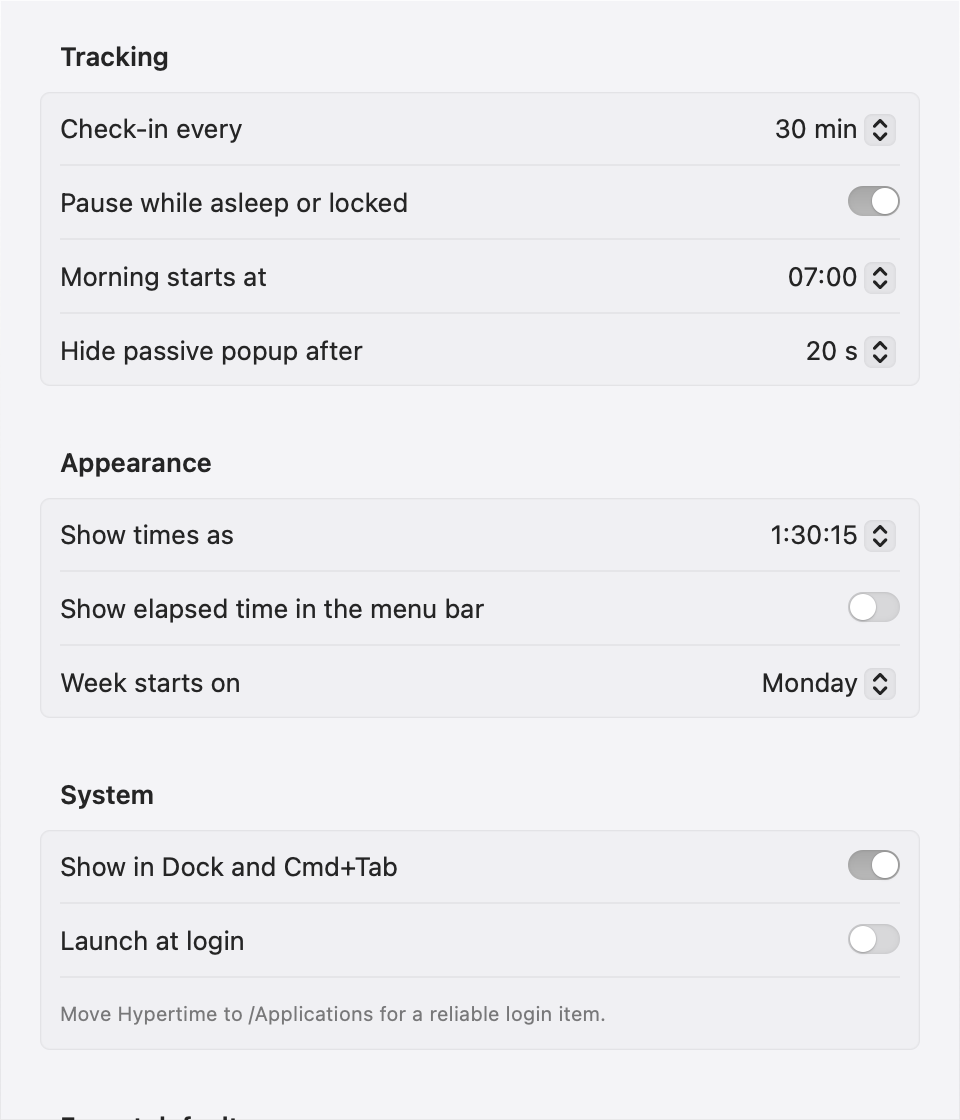
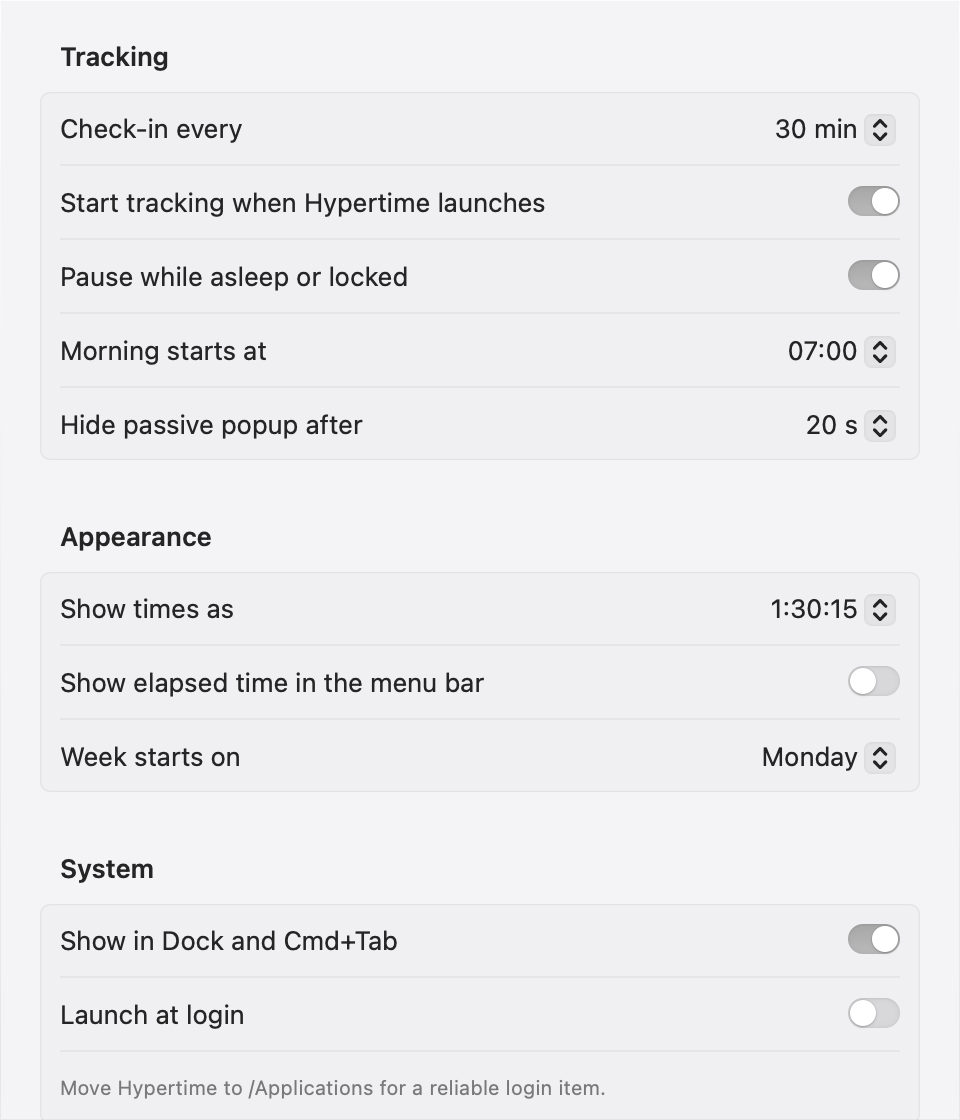
core: resume tracking on launch by default
Reverses A-03. The app now picks tracking back up on the last project as soon as
it starts, behind startTrackingOnLaunch (default on). Tracking restarts from a
fresh bucket at launch time and the check-in clock restarts with it, so none of
the hours the app spent closed are counted — quitting still stops tracking. It
stays idle when there is no last project, when that project was deleted while the
app was closed, or when the setting is off.

The two restore tests that asserted the old behaviour now cover both settings,
plus the deleted-project and no-history paths.

diff --git a/Tests/HypertimeCoreTests/TrackingEngineTests.swift b/Tests/HypertimeCoreTests/TrackingEngineTests.swift
@@ -245,8 +245,37 @@ struct TrackingEngineTests {
         #expect(try store.seconds(project: alpha.id, day: d("2026-09-07")) == 86400)
     }
 
-    @Test("restore after a clean quit: idle, project remembered, no time lost")
-    func restoreAfterQuit() throws {
+    @Test("restore picks tracking back up on the last project")
+    func restoreResumes() throws {
+        engine.start(projectID: alpha.id)
+        run(seconds: 120)
+        engine.stop()
+        clock.advance(by: 8 * 3600)                    // the app was closed overnight
+
+        let restored = TrackingEngine(store: store, clock: clock, settings: settings)
+        restored.restore()
+        #expect(restored.status.isTracking)
+        #expect(restored.currentProjectID == alpha.id)
+        #expect(restored.pendingSeconds == 0)          // none of the closed hours are work time
+        #expect(try store.seconds(project: alpha.id, day: d("2026-09-07")) == 120)
+    }
+
+    @Test("the check-in clock restarts when tracking resumes on launch")
+    func restoreRestartsCheckInClock() throws {
+        settings.checkInIntervalMinutes = 30
+        engine.start(projectID: alpha.id)
+        run(seconds: 60)
+        engine.stop()
+        clock.advance(by: 8 * 3600)
+
+        let restored = TrackingEngine(store: store, clock: clock, settings: settings)
+        restored.restore()
+        #expect(restored.nextCheckInAt == clock.now().addingTimeInterval(1800))
+    }
+
+    @Test("restore waits when start-on-launch is off (the old A-03 behaviour)")
+    func restoreStaysIdleWhenDisabled() throws {
+        settings.startTrackingOnLaunch = false
         engine.start(projectID: alpha.id)
         run(seconds: 120)
         engine.stop()
@@ -254,12 +283,32 @@ struct TrackingEngineTests {
         let restored = TrackingEngine(store: store, clock: clock, settings: settings)
         restored.restore()
         #expect(restored.status == .idle)
-        #expect(restored.currentProjectID == alpha.id)
+        #expect(restored.currentProjectID == alpha.id)  // still preselects it (R-05)
         #expect(restored.pending == nil)
         #expect(try store.seconds(project: alpha.id, day: d("2026-09-07")) == 120)
     }
 
-    @Test("restore after a crash recovers the persisted bucket")
+    @Test("restore does not resume a project deleted while the app was closed")
+    func restoreSkipsDeletedProject() throws {
+        engine.start(projectID: alpha.id)
+        run(seconds: 60)
+        engine.stop()
+        try store.deleteProject(id: alpha.id)
+
+        let restored = TrackingEngine(store: store, clock: clock, settings: settings)
+        restored.restore()
+        #expect(restored.status == .idle)
+    }
+
+    @Test("restore with nothing tracked before stays idle")
+    func restoreWithoutHistory() {
+        let restored = TrackingEngine(store: store, clock: clock, settings: settings)
+        restored.restore()
+        #expect(restored.status == .idle)
+        #expect(restored.currentProjectID == nil)
+    }
+
+    @Test("restore after a crash recovers the persisted bucket, then resumes")
     func restoreAfterCrash() throws {
         engine.start(projectID: alpha.id)
         run(seconds: 200)
@@ -267,10 +316,10 @@ struct TrackingEngineTests {
 
         let restored = TrackingEngine(store: store, clock: clock, settings: settings)
         restored.restore()
-        #expect(restored.status == .idle)
-        #expect(restored.currentProjectID == alpha.id)
-        #expect(restored.pending == nil)
         #expect(try store.seconds(project: alpha.id, day: d("2026-09-07")) == 200)
+        #expect(restored.status.isTracking)
+        #expect(restored.currentProjectID == alpha.id)
+        #expect(restored.pendingSeconds == 0)          // the recovered time is banked, not pending
     }
 
     @Test("liveSeconds only adds pending to the right project and day")

diff --git a/Sources/Hypertime/App/SelfTest.swift b/Sources/Hypertime/App/SelfTest.swift
@@ -197,6 +197,28 @@ enum SelfTest {
         viewModel.projectTextChanged("")
         check("idle with no project named has nothing to start", !viewModel.canToggleTracking)
 
+        // Tracking picks itself back up on the next launch, on the project it was last on, and
+        // none of the time the app was closed is counted.
+        let resumeProject = try? model.store.findOrCreateProject(named: "Self Test")
+        model.engine.commit(projectID: resumeProject!.id, seconds: 0)
+        model.engine.stop()
+        let banked = (try? model.store.seconds(project: resumeProject!.id, day: model.today)) ?? 0
+
+        let relaunched = TrackingEngine(store: model.store, clock: model.clock, settings: model.settings)
+        relaunched.restore()
+        check("a relaunch picks tracking back up", relaunched.status.isTracking)
+        check("…on the project it was last on", relaunched.currentProjectID == resumeProject?.id)
+        check("…counting none of the time the app was closed", relaunched.pendingSeconds == 0)
+        check("…and banking nothing extra",
+              ((try? model.store.seconds(project: resumeProject!.id, day: model.today)) ?? 0) == banked)
+
+        model.settings.startTrackingOnLaunch = false
+        let waiting = TrackingEngine(store: model.store, clock: model.clock, settings: model.settings)
+        waiting.restore()
+        check("with the setting off a relaunch waits instead", waiting.status == .idle)
+        check("…but still remembers the project", waiting.currentProjectID == resumeProject?.id)
+        model.settings.startTrackingOnLaunch = true
+
         // The dismiss is animated; give it a run loop turn before checking the window is gone.
         DispatchQueue.main.asyncAfter(deadline: .now() + 0.4) {
             check("panel is ordered out once the dismiss finishes", !panel.isVisible)

diff --git a/Sources/HypertimeCore/TrackingEngine.swift b/Sources/HypertimeCore/TrackingEngine.swift
@@ -260,7 +260,8 @@ public final class TrackingEngine {
 
     // MARK: - Persistence
 
-    /// Restores across launches. Per A-03 the app starts idle; crashed pending time is recovered.
+    /// Restores across launches. Crashed pending time is recovered, then tracking either picks
+    /// up where it left off or waits, depending on `startTrackingOnLaunch`.
     public func restore() {
         guard let state = try? store.loadEngineState() else {
             persist(force: true)
@@ -280,10 +281,20 @@ public final class TrackingEngine {
         }
 
         pending = nil
-        status = .idle
         lastTickAt = clock.now()
-        persist(force: true)
-        broadcaster.send(.statusChanged(status))
+
+        // Time while the app was not running is never work time, so tracking always restarts
+        // from a fresh bucket at "now" — including the check-in clock.
+        if settings.startTrackingOnLaunch,
+           let projectID = currentProjectID,
+           (try? store.project(id: projectID)) != nil {
+            lastCommitAt = clock.now()
+            start(projectID: projectID)
+        } else {
+            status = .idle
+            persist(force: true)
+            broadcaster.send(.statusChanged(status))
+        }
     }
 
     private func setStatus(_ new: TrackingStatus) {

diff --git a/Sources/HypertimeCore/Settings.swift b/Sources/HypertimeCore/Settings.swift
@@ -4,6 +4,7 @@ import Foundation
 public final class Settings: @unchecked Sendable {
     public enum Key: String, CaseIterable, Sendable {
         case checkInIntervalMinutes
+        case startTrackingOnLaunch
         case launchAtLogin
         case showInDockAndCmdTab
         case showElapsedInMenuBar
@@ -28,6 +29,7 @@ public final class Settings: @unchecked Sendable {
         self.defaults = defaults
         defaults.register(defaults: [
             Key.checkInIntervalMinutes.rawValue: 30,
+            Key.startTrackingOnLaunch.rawValue: true,
             Key.launchAtLogin.rawValue: true,
             Key.showInDockAndCmdTab.rawValue: true,
             Key.showElapsedInMenuBar.rawValue: false,
@@ -64,6 +66,12 @@ public final class Settings: @unchecked Sendable {
     public var checkInInterval: TimeInterval? {
         let minutes = checkInIntervalMinutes
         return minutes > 0 ? TimeInterval(minutes) * 60 : nil
+    }
+
+    /// Pick tracking back up on the last project as soon as the app starts (supersedes A-03).
+    public var startTrackingOnLaunch: Bool {
+        get { defaults.bool(forKey: Key.startTrackingOnLaunch.rawValue) }
+        set { set(newValue, .startTrackingOnLaunch) }
     }
 
     public var launchAtLogin: Bool {

diff --git a/Sources/Hypertime/ViewModels/SettingsViewModel.swift b/Sources/Hypertime/ViewModels/SettingsViewModel.swift
@@ -8,6 +8,7 @@ final class SettingsViewModel {
     private let model: AppModel
 
     var checkInIntervalMinutes: Int { didSet { settings.checkInIntervalMinutes = checkInIntervalMinutes } }
+    var startTrackingOnLaunch: Bool { didSet { settings.startTrackingOnLaunch = startTrackingOnLaunch } }
     var pauseOnSleepAndLock: Bool { didSet { settings.pauseOnSleepAndLock = pauseOnSleepAndLock } }
     var morningHour: Int { didSet { settings.morningHour = morningHour } }
     var passiveAutoHide: Int { didSet { settings.passivePopupAutoHideSeconds = passiveAutoHide } }
@@ -35,6 +36,7 @@ final class SettingsViewModel {
         self.model = model
         let settings = model.settings
         checkInIntervalMinutes = settings.checkInIntervalMinutes
+        startTrackingOnLaunch = settings.startTrackingOnLaunch
         pauseOnSleepAndLock = settings.pauseOnSleepAndLock
         morningHour = settings.morningHour
         passiveAutoHide = settings.passivePopupAutoHideSeconds

diff --git a/Sources/Hypertime/Views/Settings/SettingsView.swift b/Sources/Hypertime/Views/Settings/SettingsView.swift
@@ -13,6 +13,7 @@ struct SettingsView: View {
                         Text(minutes == 0 ? "Off" : "\(minutes) min").tag(minutes)
                     }
                 }
+                Toggle("Start tracking when Hypertime launches", isOn: $viewModel.startTrackingOnLaunch)
                 Toggle("Pause while asleep or locked", isOn: $viewModel.pauseOnSleepAndLock)
                 Picker("Morning starts at", selection: $viewModel.morningHour) {
                     ForEach(0..<24, id: \.self) { hour in

diff --git a/README.md b/README.md
@@ -21,9 +21,15 @@ Requires macOS 15 or later (Apple silicon or Intel).
 
 ## First run
 
-Hypertime starts **idle** and shows its popup without taking focus. Type what you are working
-on and press ↩. That first confirm starts tracking; from then on the app asks again every
-30 minutes (configurable, or off).
+On the very first launch Hypertime has no projects yet, so it shows its popup without taking
+focus and waits. Type what you are working on and press ↩.
+
+After that it picks tracking straight back up on whatever you were last working on, every time
+it launches — you do not have to start it by hand. The popup still appears so you can see what
+it resumed on and change it. Turn this off with "Start tracking when Hypertime launches" in
+Settings if you would rather begin each session deliberately.
+
+While tracking, the app asks what you are working on every 30 minutes (configurable, or off).
 
 The menu bar icon shows the state at a glance: an empty dial when idle, a filled dot while
 tracking, two bars while paused.
@@ -42,8 +48,9 @@ written to a project until you confirm, so an unanswered popup can never misfile
   45 minutes are gone, not hidden.
 
 Time is never counted while the Mac sleeps or the screen is locked. Tracking pauses
-automatically and resumes with a check-in when you come back. Quitting stops tracking; the app
-does not resume on its own at launch.
+automatically and resumes with a check-in when you come back. Quitting stops tracking, and the
+hours the app spends closed are never counted — a relaunch starts a fresh bucket from that
+moment.
 
 ## Keyboard
 
@@ -114,7 +121,8 @@ settings, and can be overridden per export.
 
 ## Settings
 
-Check-in interval · pause on sleep and lock · morning hour for "pause until 07:00" ·
+Check-in interval · start tracking on launch · pause on sleep and lock ·
+morning hour for "pause until 07:00" ·
 passive popup auto-hide · time display format · elapsed time in the menu bar · week start ·
 Dock and Cmd+Tab visibility · launch at login · CSV defaults.
 
@@ -132,7 +140,7 @@ Back it up by copying that file. If it ever becomes unreadable, Hypertime moves 
 ## Development
 
 ```bash
-swift test                  # 101 tests over HypertimeCore
+swift test                  # 105 tests over HypertimeCore
 scripts/run.sh              # build dist/Hypertime.app and launch it
 scripts/run.sh --seed-demo  # same, against a seeded demo database
 scripts/release.sh          # signed .app + .zip + .dmg in dist/

diff --git a/docs/DECISIONS.md b/docs/DECISIONS.md
@@ -81,3 +81,4 @@ Everything in `PLAN.md` has been built. What remains needs a person, not more co
 | 2026-09-07 | §6.3 | The popup only anchors to the status item once the menu bar has placed it. Until then the item's window reports an off-screen frame (observed origin {0, -37}), which the old code happily used — clamped, that put the popup in the bottom-left corner of the display. `StatusItemController.screenFrame` now returns nil until the item is in the menu bar, the launch popup waits up to a second for it, and with no anchor the popup falls back to the top right. | Reported: "the window sometimes pops up in the lower left corner". The guard was `window.screen != nil`, which an unplaced item satisfies. |
 | 2026-09-07 | §6.3 | The popup's top edge is 6 pt below the **menu bar**, not 6 pt below the status item's own frame. | §6.3 says "6 pt below the menu bar"; the item is centred inside the bar, so its bottom edge sits ~8 pt higher and the popup was being pushed into the bar and then clamped. |
 | 2026-09-08 | §6.4 | Focus rings are drawn only while the window is key (`controlActiveState`), and a live-updating field only re-selects its text while the window is key. `--screenshots` overrides this so the QA renders keep documenting the focus specs. | A ring says "typing goes here", which is false in a panel the user has left. The amount field also re-ran `selectAll` on every one-second tick, so its selection kept redrawing bright instead of dimming. |
+| 2026-09-08 | A-03, R-15 | **Reverses A-03.** The app now resumes tracking on the last project as soon as it launches, behind a `startTrackingOnLaunch` setting that defaults to on. Tracking always restarts from a fresh bucket at launch time, and the check-in clock restarts with it, so none of the hours the app spent closed are counted — R-15's "quitting stops tracking" still holds. It stays idle when there is no last project, when that project was deleted while the app was closed, or when the setting is off. | User: "let the app start tracking as soon as it launches ... default should be tracking-on". A-03 was flagged in the plan as an assumption for exactly this kind of correction; it had been confirmed on 2026-09-07 and is now withdrawn. |

diff --git a/CLAUDE.md b/CLAUDE.md
@@ -23,7 +23,7 @@ artboard-drift pass (the artboards were not part of the handoff zip).
 ## Commands
 ```bash
 swift build
-swift test                              # 101 tests, swift-testing (import Testing)
+swift test                              # 105 tests, swift-testing (import Testing)
 swift test --enable-code-coverage
 scripts/build-app.sh                    # -> dist/Hypertime.app (ad-hoc signed)
 scripts/run.sh                          # kills running instance, builds, opens
